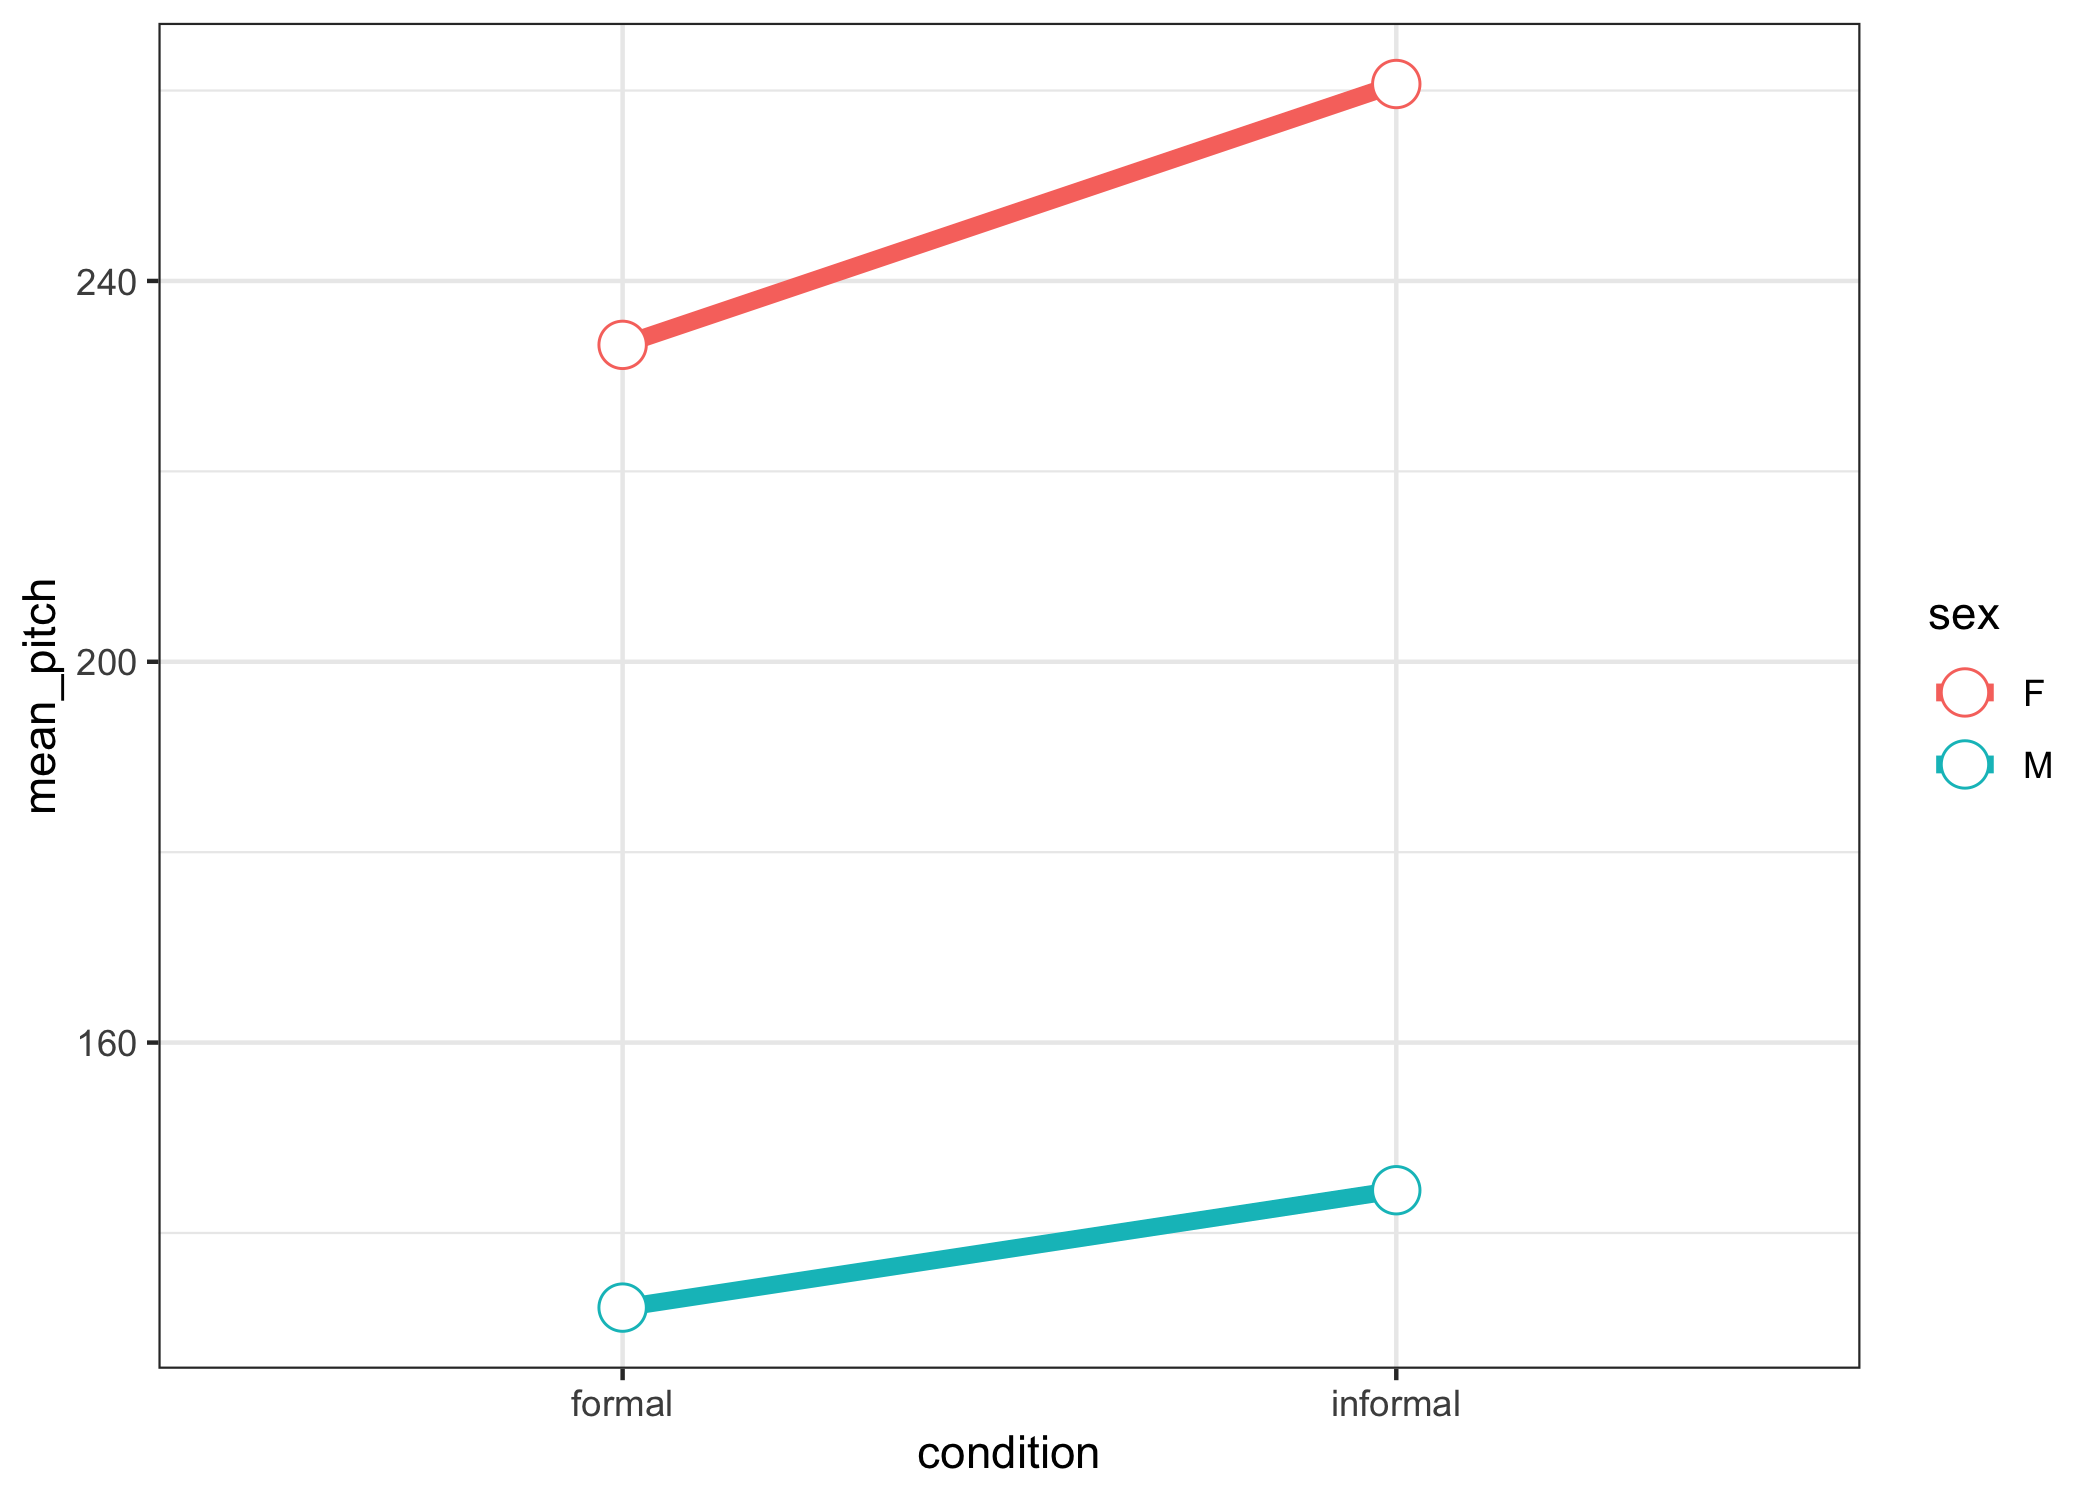
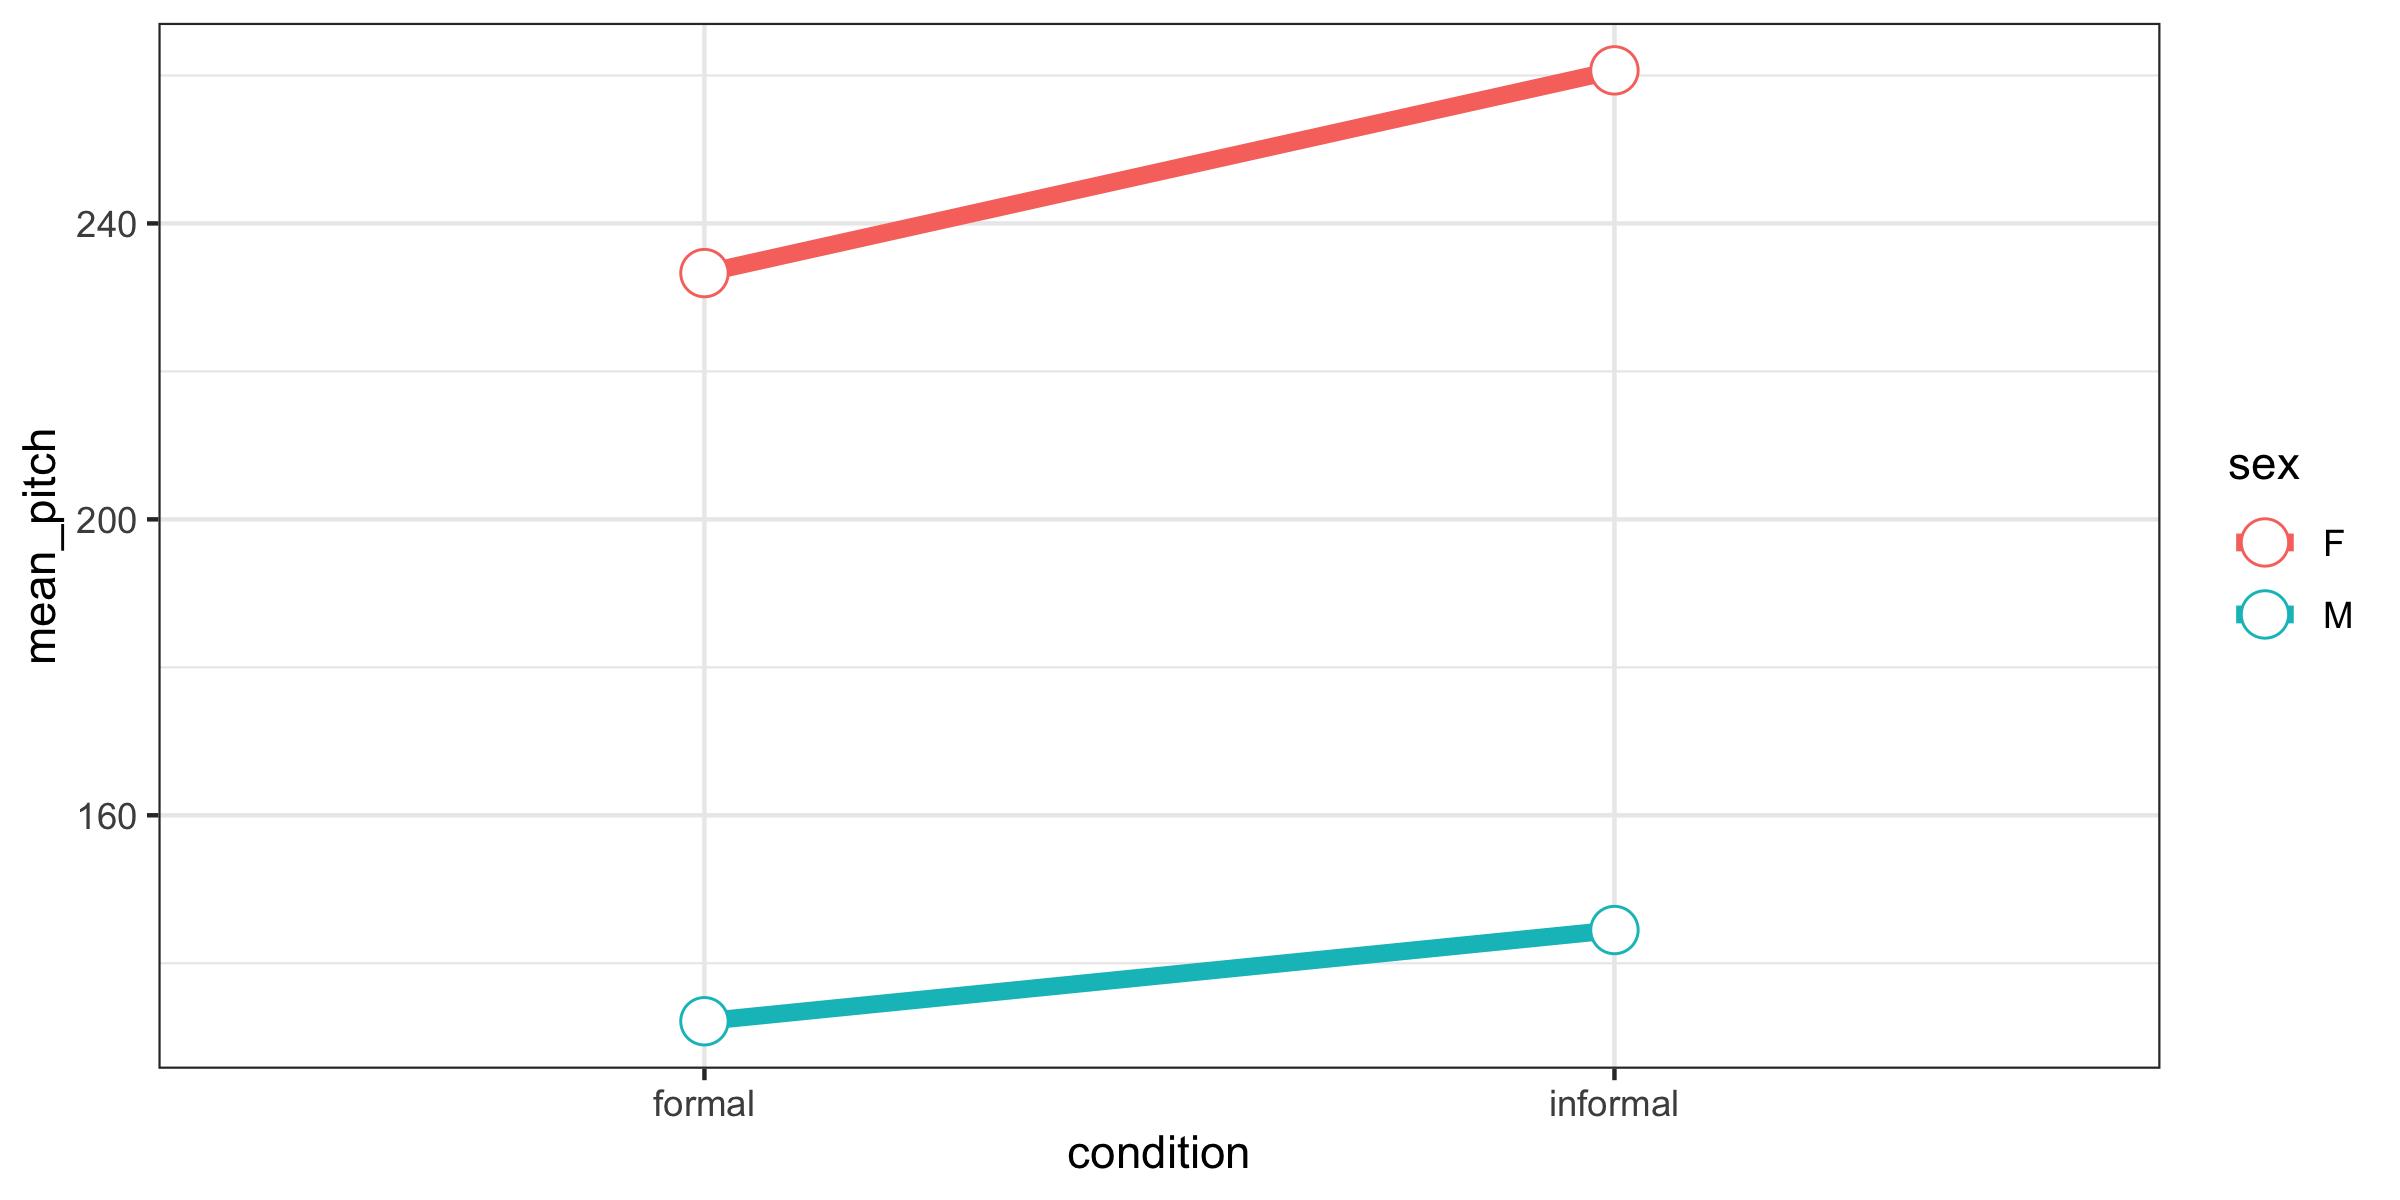
Missing graph attempt 2

diff --git a/sta303_w5_slides.html b/sta303_w5_slides.html
@@ -614,10 +614,12 @@ Males have lower pitches than females by an average of 109 Hz and in informal si
 
 
 
+.pull-left[
+&lt;img src="libs/images/w5/aside.png" width="910%" /&gt;
 
-&lt;img src="libs/images/w5/aside.png" width="672" /&gt;
+]
 
-.midi[This gives us a general idea of what is going on...but doesn't account for variability at all! Maybe these differences don't actually mean anything in the context of the variability of our data. That is why we want to take a modelling approach.]
+.pull-right[This gives us a general idea of what is going on...but doesn't account for variability at all! Maybe these differences don't actually mean anything in the context of the variability of our data. That is why we want to take a modelling approach.]
 
 ---
 ### Random slopes for condition
